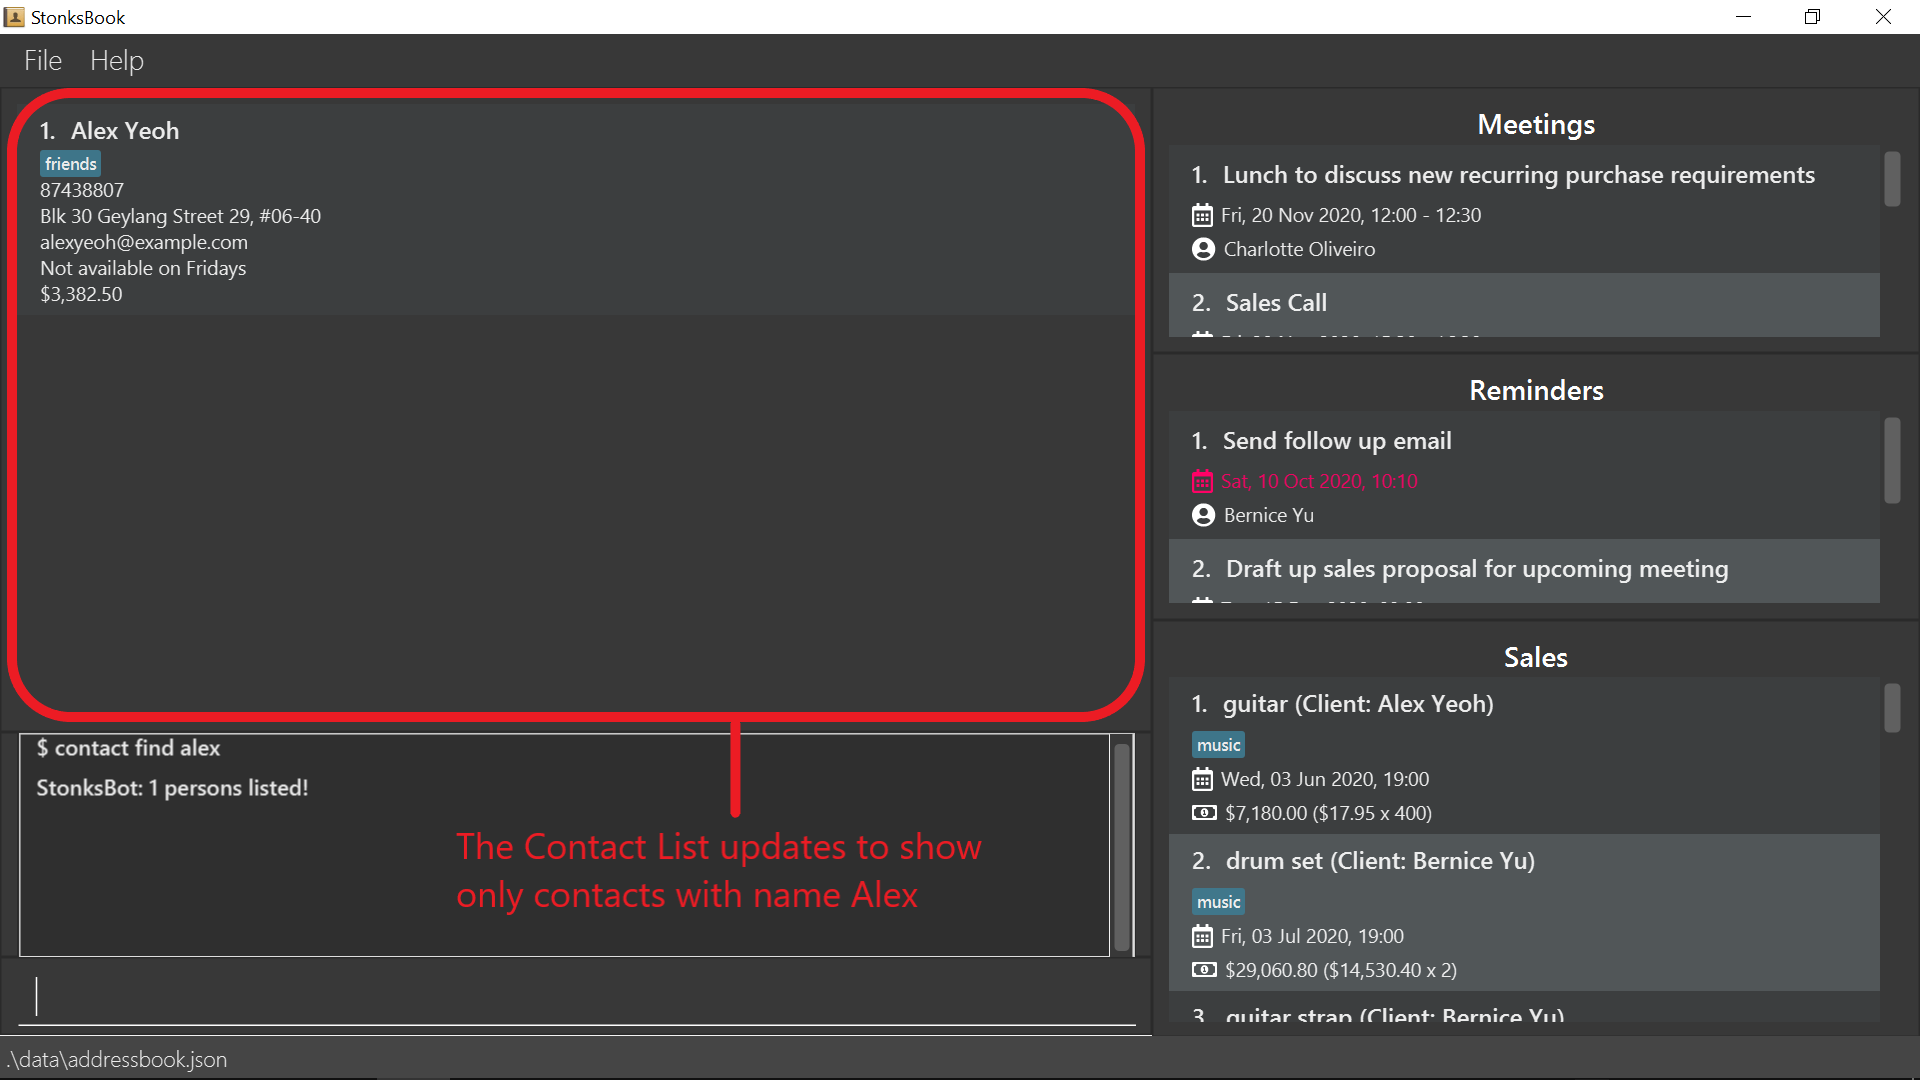
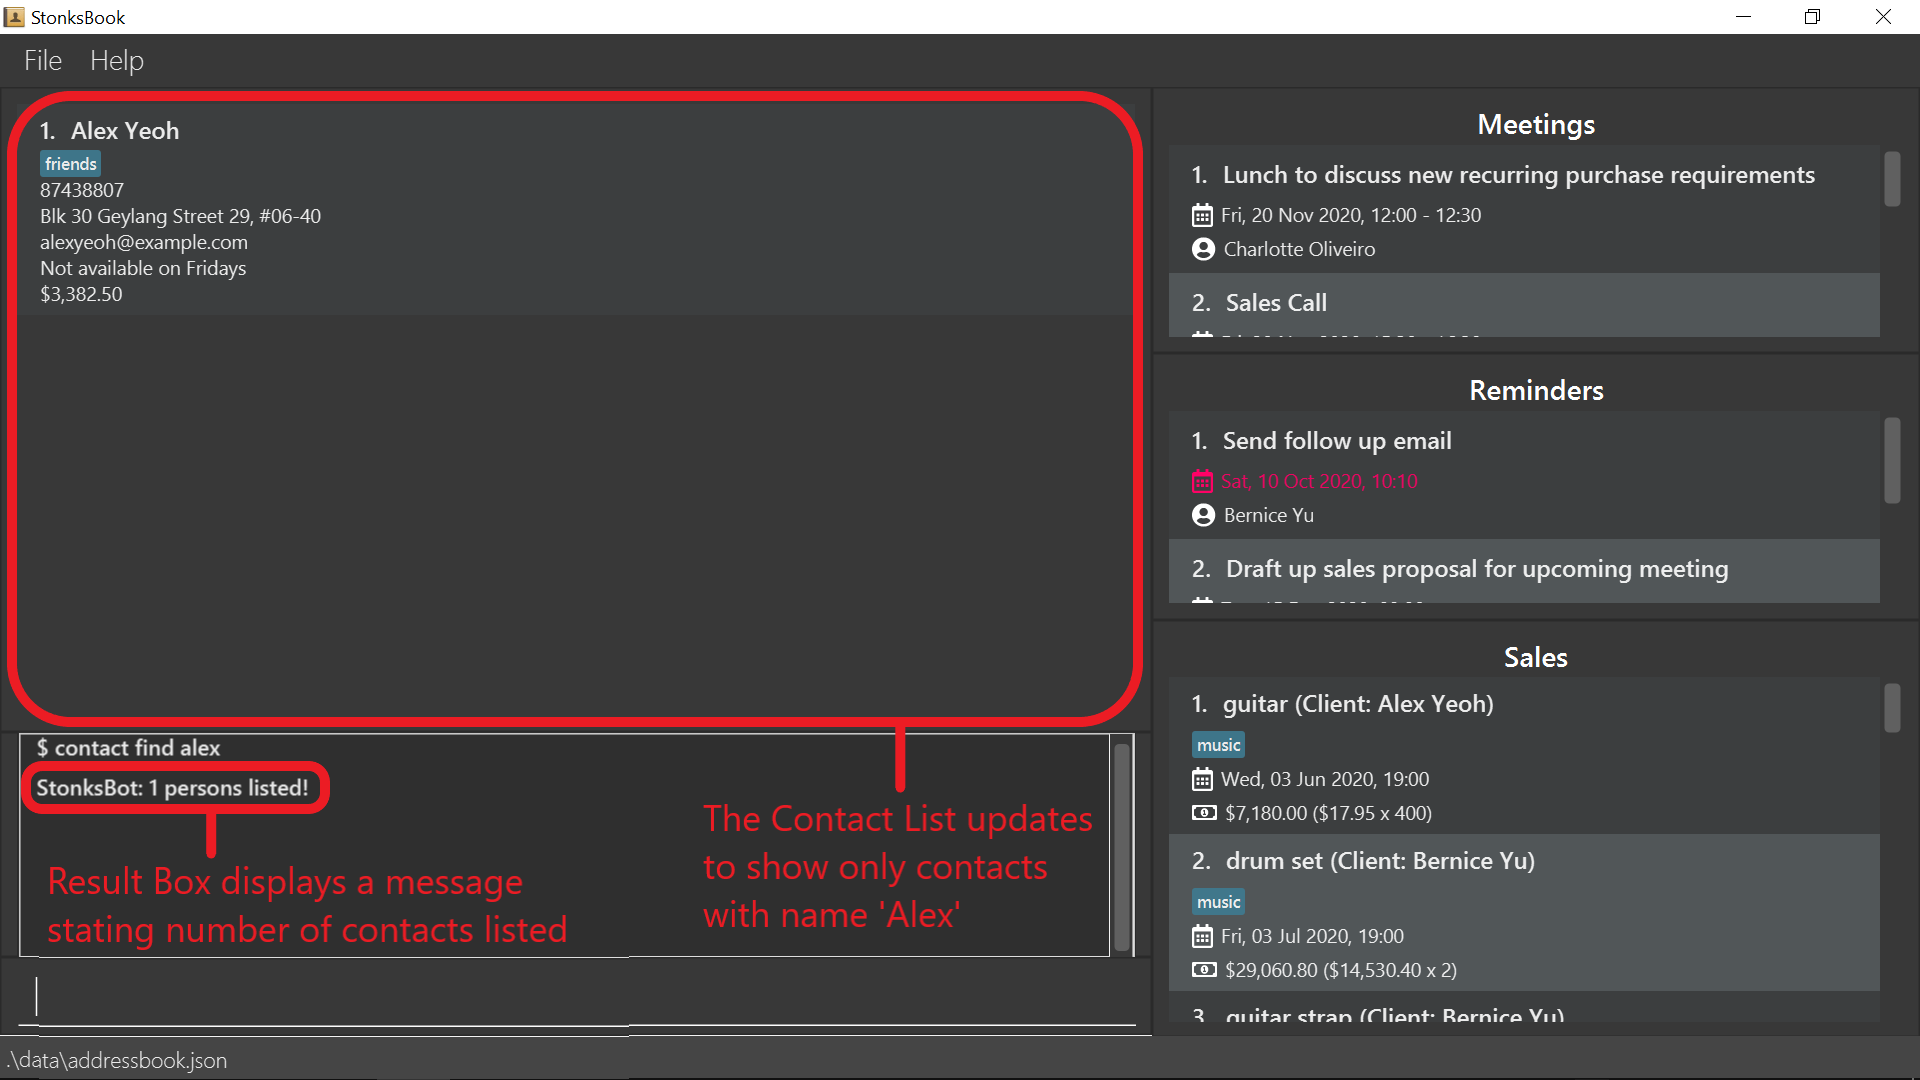
Update UG for meeting add

diff --git a/docs/UserGuide.md b/docs/UserGuide.md
@@ -348,7 +348,8 @@ Suppose you want to view all upcoming meetings scheduled with Alex Yeoh. This is
      
 <img src="images/meeting-list/contact-find-alex.png" alt="Enter 'contact find alex' in the command box" width="900px">
     
-2. The **Result Box** will display a message of the number of contacts listed.
+2. The **Result Box** will display a message of the number of contacts listed and the **Contact List** updates to
+ show only contacts with the name 'Alex'
  
 <img src="images/meeting-list/contact-find-alex-result.png" alt="Result for 'contact find alex'" width="900px">
  
@@ -365,7 +366,12 @@ Suppose you want to view all upcoming meetings scheduled with Alex Yeoh. This is
 
 Adds a scheduled meeting with the specified contact in StonksBook.
 
-Format: `meeting add c/CONTACT_INDEX m/MESSAGE d/START_DATETIME du/DURATION`
+<div markdown="block" class="alert alert-info">
+To prevent the situation in which you unknowingly scheduled conflicting meetings, StonksBook will not allow you to
+ add a new meeting if it conflicts with some meeting in StonksBook!
+</div>
+
+**Format**: `meeting add c/CONTACT_INDEX m/MESSAGE d/START_DATETIME du/DURATION`
 
 * Adds a scheduled meeting with the contact at the specified `CONTACT_INDEX`.
 * The index refers to the index number shown in the displayed contact list.
@@ -373,23 +379,28 @@ Format: `meeting add c/CONTACT_INDEX m/MESSAGE d/START_DATETIME du/DURATION`
 * The start datetime must be in the format `yyyy-MM-dd HH:mm`
 * The duration is specified in minutes and must be a positive integer.
 
-Example:
-Let's say that you successfully secured a lunch meeting with John Doe that is scheduled for 3 December 2020 12pm
-and lasts 60 minutes. Here's how you can add this new meeting into StonksBook.
+**Example**:
+Let's say that you successfully secured a lunch meeting with Alex Yeoh that is scheduled for 3 December 2020 12pm
+and lasts 60 minutes. Here's how you can add this new meeting into StonksBook:
  
- 1. Identify the index corresponding to John Doe in the contact list. If you have a large list of contacts, it may be
-  convenient to search for John Doe by typing `contact find John Doe` in the command box. The contact list will update
-   to show all contacts with the name John Doe. 
+ 1. Type `contact find alex` in the **Command Box** and press <kbd>Enter</kbd>. 
+     - This is to identify the contact index corresponding to Alex Yeoh. Let us assume that Alex Yeoh is at the first
+      index.
+      
+ <img src="images/meeting-list/contact-find-alex.png" alt="Enter 'contact find alex' in the command box" width="900px">
  
- 2. Suppose John Doe is at the second index in the contact list. Then, type `meeting add c/2 m/Lunch with John Doe d/2020-12-03 12:00 du/90` 
- in the command box, and press Enter to execute it.
+ 2. The **Result Box** will display a message of the number of contacts listed.
+  
+ <img src="images/meeting-list/contact-find-alex-result.png" alt="Result for 'contact find alex'" width="900px">
  
- 3. You should see the newly created meeting in the meetings list. 
-
-<div markdown="block" class="alert alert-info">
-To prevent the situation in which you unknowingly scheduled conflicting meetings, StonksBook will not allow you to
- add a new meeting if it conflicts with some meeting in StonksBook!
-</div>
+ 3. Type `meeting add c/2 m/Lunch with Alex Yeoh d/2020-12-03 12:00 du/90` in the **Command Box** and press <kbd>Enter</kbd>.
+ 
+ <img src="images/meeting-add/meeting add.png" alt="Enter 'meeting add' in the command box" width="900px">
+  
+4. The **Result Box** will display a message noting that the command was successful, and the **Meeting List** will
+ contain this newly created meeting.
+ 
+  <img src="images/meeting-add/meeting-add-result.png" alt="Result for 'meeting add'" width="900px">
 
 #### Deleting a meeting: `meeting delete` \[Sebastian Toh Shi Jian\]
 
